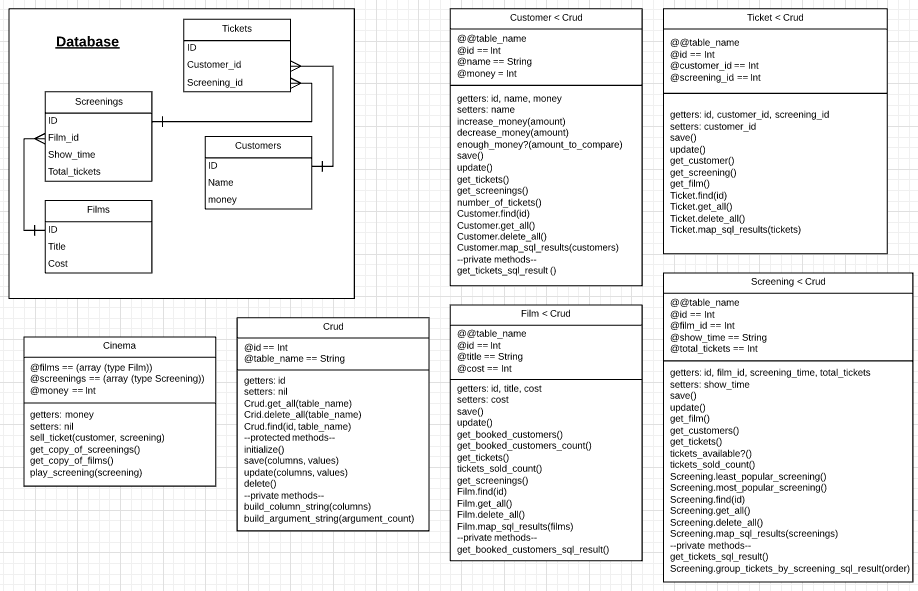
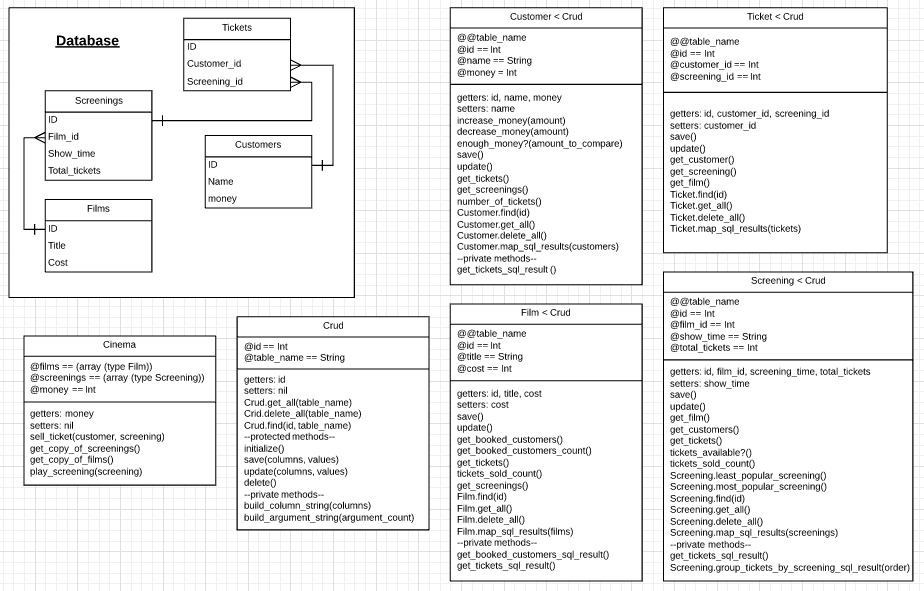
class Film: added methods to get number of tickets sold for one film and refactored method get_tickets as both use similar code. Update diagram to match

diff --git a/models/film.rb b/models/film.rb
@@ -51,15 +51,12 @@ class Film < Crud
   end
 
   def get_tickets()
-    sql_command = "SELECT tickets.* FROM films
-      INNER JOIN screenings
-      ON films.id = screenings.film_id
-      INNER JOIN tickets
-      ON screenings.id = tickets.screening_id
-      WHERE films.id = #{@id}
-      ORDER BY tickets.screening_id"
-    tickets = SqlRunner.run(sql_command)
+    tickets = get_tickets_sql_result()
     return Ticket.map_sql_result(tickets)
+  end
+
+  def get_tickets_sold_count()
+    return get_tickets_sql_result().ntuples
   end
 
   def get_booked_customers()
@@ -82,6 +79,17 @@ class Film < Crud
       INNER JOIN customers
       ON tickets.customer_id = customers.id
       WHERE films.id = #{@id}"
+    return SqlRunner.run(sql_command)
+  end
+
+  def get_tickets_sql_result()
+    sql_command = "SELECT tickets.* FROM films
+      INNER JOIN screenings
+      ON films.id = screenings.film_id
+      INNER JOIN tickets
+      ON screenings.id = tickets.screening_id
+      WHERE films.id = #{@id}
+      ORDER BY tickets.screening_id"
     return SqlRunner.run(sql_command)
   end
 end
